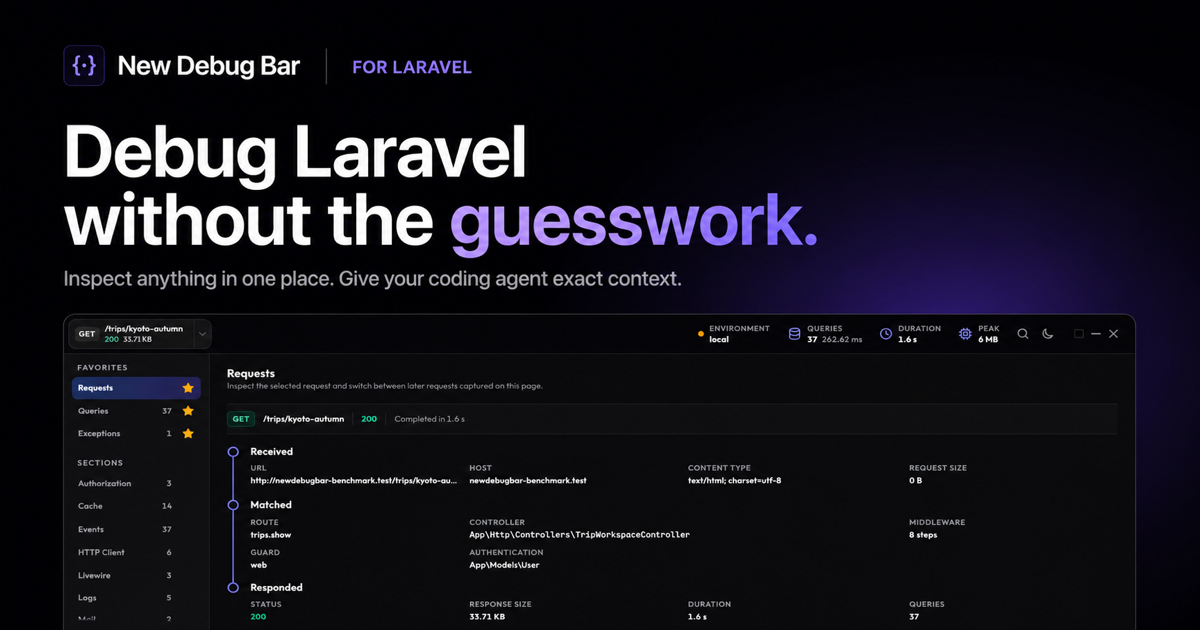
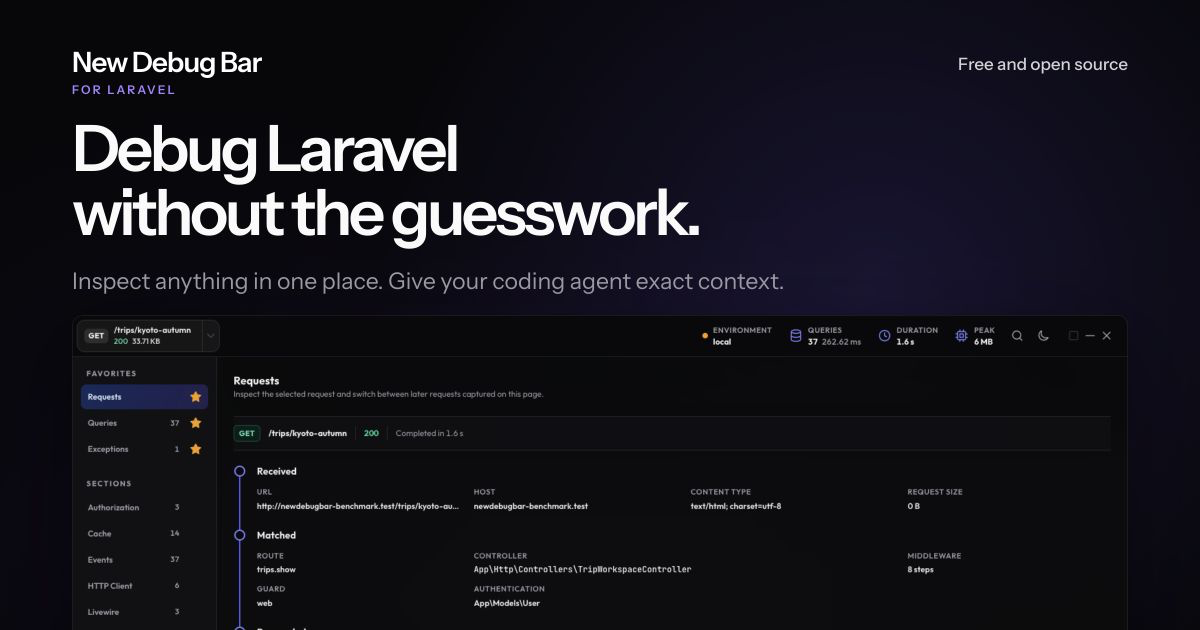
Make social previews reproducible
- Add a local-only fixed 1200 by 630 capture page.\n- Use the real dark Requests inspector and hero visual language.\n- Verify capture exclusion, source dimensions, and social metadata.

diff --git a/resources/views/social/og-image.blade.php b/resources/views/social/og-image.blade.php
@@ -1,0 +1,65 @@
+<!DOCTYPE html>
+<html lang="en" data-theme="dark" class="bg-[#07070a]">
+    <head>
+        <meta charset="utf-8">
+        <meta name="viewport" content="width=1200, initial-scale=1">
+        <meta name="robots" content="noindex, nofollow">
+
+        <title>New Debug Bar social preview</title>
+
+        @fonts
+        @vite('resources/css/app.css')
+
+        <style>
+            html,
+            body {
+                width: 1200px;
+                min-width: 1200px;
+                height: 630px;
+                min-height: 630px;
+                overflow: hidden;
+            }
+
+        </style>
+    </head>
+    <body class="bg-[#07070a] font-sans antialiased">
+        <main
+            class="relative isolate h-[630px] w-[1200px] overflow-hidden bg-[#07070a] text-white [background:radial-gradient(circle_at_73%_47%,rgb(119_87_255_/_16%),transparent_31.25rem),radial-gradient(circle_at_18%_87%,rgb(76_29_149_/_8%),transparent_28rem),#07070a]"
+            data-social-preview-canvas
+            data-social-preview-width="1200"
+            data-social-preview-height="630"
+        >
+            <header class="absolute top-12 left-[72px] flex flex-col leading-none" aria-label="New Debug Bar for Laravel">
+                <span class="text-[28px] font-semibold tracking-[-0.035em]">New Debug Bar</span>
+                <span class="mt-1.5 text-xs font-semibold uppercase leading-4 tracking-[0.18em] text-violet-400">for Laravel</span>
+            </header>
+
+            <p class="absolute top-[52px] right-[72px] text-[17px] leading-6 font-medium text-zinc-300">
+                Free and open source
+            </p>
+
+            <h1 class="absolute top-[116px] left-[72px] w-[930px] text-[64px] leading-none font-semibold tracking-[-0.055em] text-zinc-50">
+                Debug Laravel<br>
+                without the guesswork.
+            </h1>
+
+            <p class="absolute top-[265px] left-[72px] w-[880px] text-[23px] leading-8 text-zinc-400">
+                Inspect anything in one place. Give your coding agent exact context.
+            </p>
+
+            <div class="absolute top-[315px] left-[72px] w-[1056px] before:absolute before:inset-[8%_7%_32%] before:z-[-1] before:rounded-[50%] before:bg-[rgb(124_58_237_/_13%)] before:blur-[5rem] before:content-['']">
+                <img
+                    class="block h-auto w-full drop-shadow-[0_1.75rem_2.5rem_rgb(0_0_0_/_48%)]"
+                    src="{{ Vite::asset('resources/images/screenshots/request-inspector-desktop-dark.png') }}"
+                    width="1536"
+                    height="780"
+                    alt="The New Debug Bar Requests inspector showing exact Laravel request data"
+                    decoding="sync"
+                    fetchpriority="high"
+                    data-request-inspector-image
+                    data-request-inspector-theme="dark"
+                >
+            </div>
+        </main>
+    </body>
+</html>

diff --git a/tests/Feature/PublicPagesTest.php b/tests/Feature/PublicPagesTest.php
@@ -1,5 +1,8 @@
 <?php
 
+use Illuminate\Http\Request;
+use NewDebugBar\Support\RequestEligibility;
+
 use function Pest\Laravel\get;
 use function Pest\Laravel\withoutVite;
 
@@ -127,6 +130,7 @@ it('shows the project roadmap after the support section', function () {
 
 it('publishes a dedicated social preview image', function () {
     $response = get('/')->assertOk();
+    $imageSize = getimagesize(resource_path('images/social/newdebugbar-og.png'));
 
     $previousErrorHandling = libxml_use_internal_errors(true);
     $document = new DOMDocument;
@@ -150,7 +154,38 @@ it('publishes a dedicated social preview image', function () {
         ->and($ogImageHeight->item(0)?->getAttribute('content'))->toBe('630')
         ->and($ogImageAlt->item(0)?->getAttribute('content'))->not->toBe('')
         ->and($twitterImage->item(0)?->getAttribute('content'))->toBe($ogImage->item(0)?->getAttribute('content'))
-        ->and($twitterImageAlt->item(0)?->getAttribute('content'))->toBe($ogImageAlt->item(0)?->getAttribute('content'));
+        ->and($twitterImageAlt->item(0)?->getAttribute('content'))->toBe($ogImageAlt->item(0)?->getAttribute('content'))
+        ->and($imageSize)->not->toBeFalse()
+        ->and([$imageSize[0], $imageSize[1]])->toBe([1200, 630]);
+});
+
+it('renders the social preview from a fixed local capture page', function () {
+    expect(app(RequestEligibility::class)->allows(Request::create('/__newdebugbar/social-preview')))->toBeFalse();
+
+    $response = get('/__newdebugbar/social-preview')
+        ->assertOk()
+        ->assertViewIs('social.og-image')
+        ->assertHeaderMissing('X-NewDebugBar-Profile');
+
+    $previousErrorHandling = libxml_use_internal_errors(true);
+    $document = new DOMDocument;
+    $document->loadHTML($response->getContent());
+    libxml_clear_errors();
+    libxml_use_internal_errors($previousErrorHandling);
+
+    $xpath = new DOMXPath($document);
+    $canvas = $xpath->query('//*[@data-social-preview-canvas]');
+    $productScreenshot = $xpath->query('//*[@data-social-preview-canvas]//*[@data-request-inspector-image]');
+    $injectedToolbar = $xpath->query('//*[@id="newdebugbar"]');
+
+    expect($canvas)->toHaveCount(1)
+        ->and($canvas->item(0)?->getAttribute('data-social-preview-width'))->toBe('1200')
+        ->and($canvas->item(0)?->getAttribute('data-social-preview-height'))->toBe('630')
+        ->and($productScreenshot)->toHaveCount(1)
+        ->and($productScreenshot->item(0)?->getAttribute('width'))->toBe('1536')
+        ->and($productScreenshot->item(0)?->getAttribute('height'))->toBe('780')
+        ->and($productScreenshot->item(0)?->getAttribute('data-request-inspector-theme'))->toBe('dark')
+        ->and($injectedToolbar)->toHaveCount(0);
 });
 
 it('publishes every public documentation route through the XML sitemap', function () {

diff --git a/routes/web.php b/routes/web.php
@@ -4,6 +4,10 @@ use Illuminate\Support\Facades\Route;
 
 Route::view('/', 'welcome');
 
+if (app()->isLocal() || app()->runningUnitTests()) {
+    Route::view('/__newdebugbar/social-preview', 'social.og-image')->name('social.og-image');
+}
+
 Route::get('/sitemap.xml', function () {
     $documentationUrls = collect(config('docs.navigation'))
         ->flatMap(fn (array $group): array => $group['pages'])
